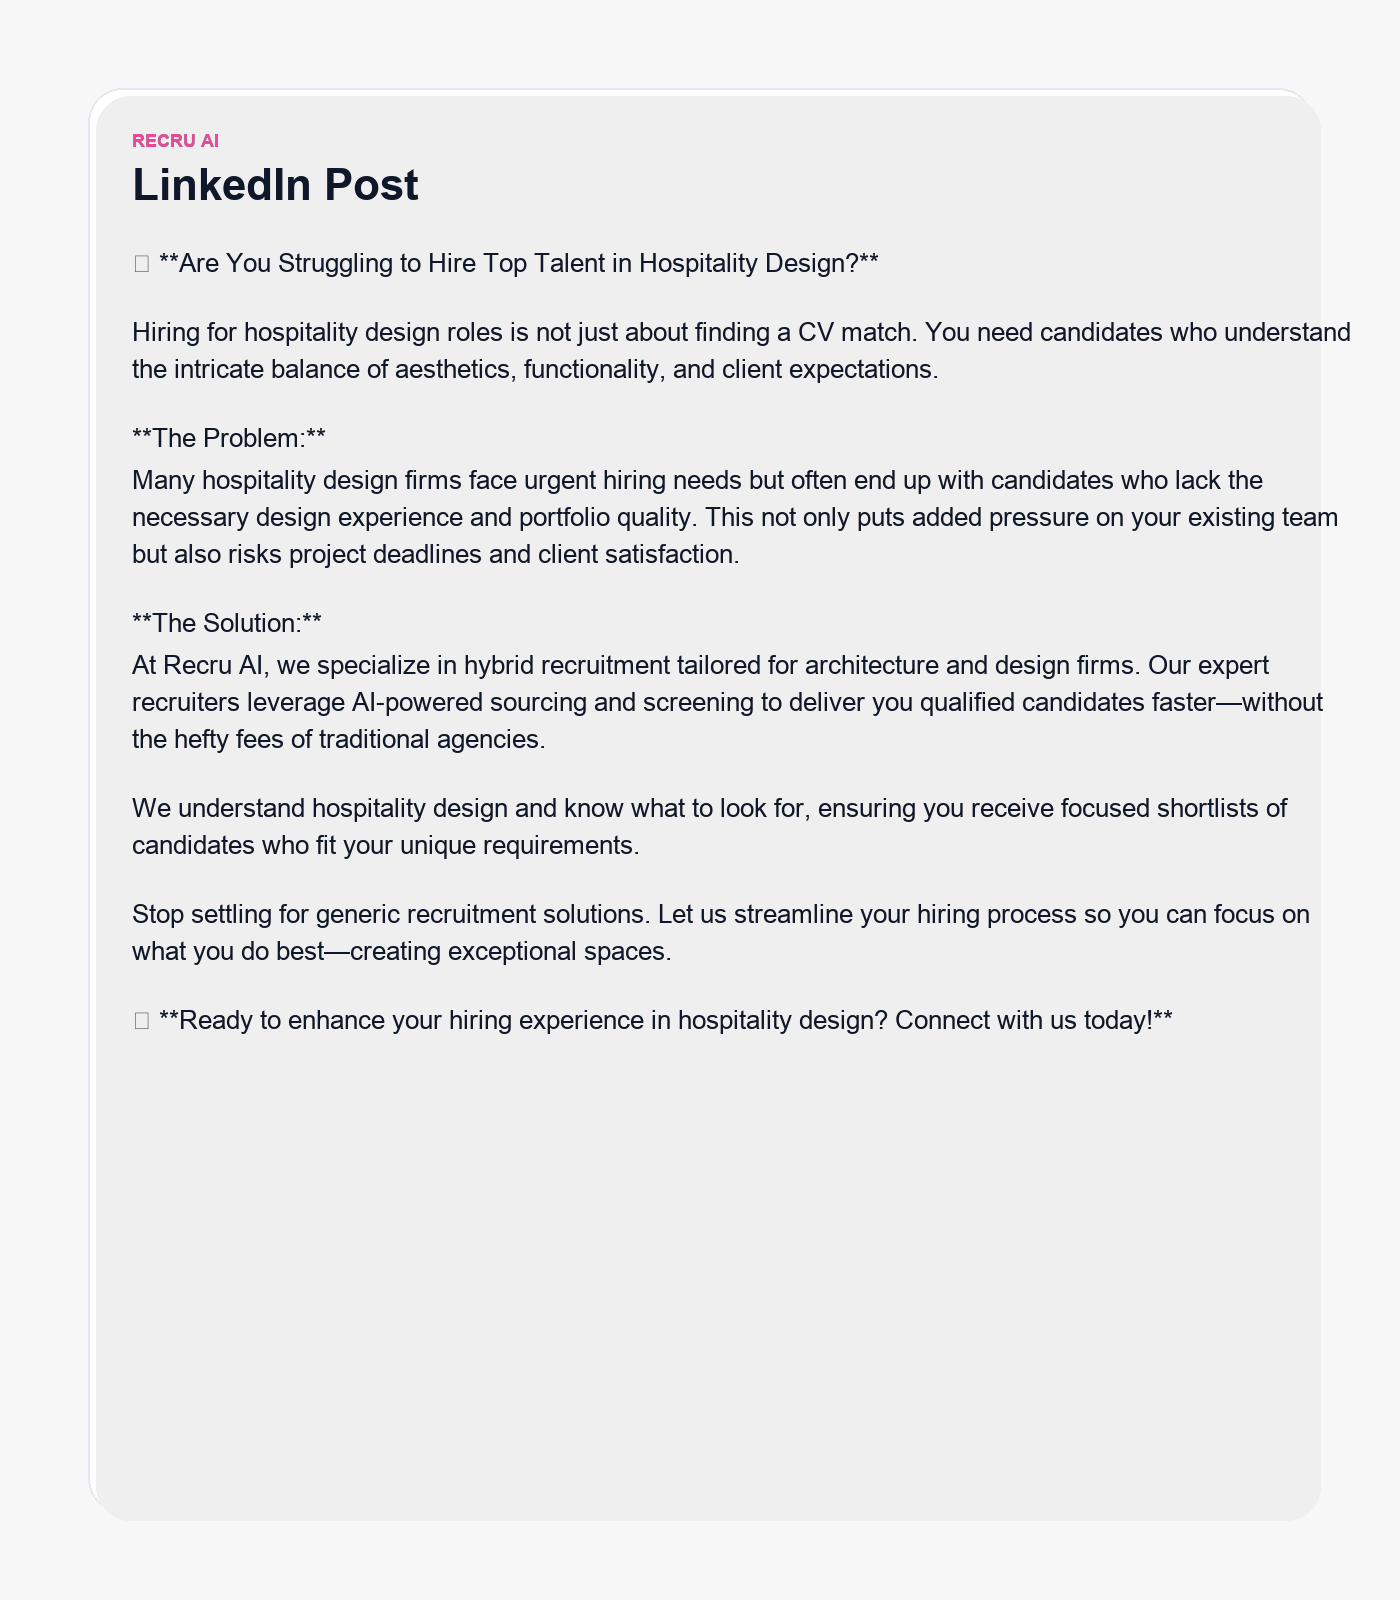
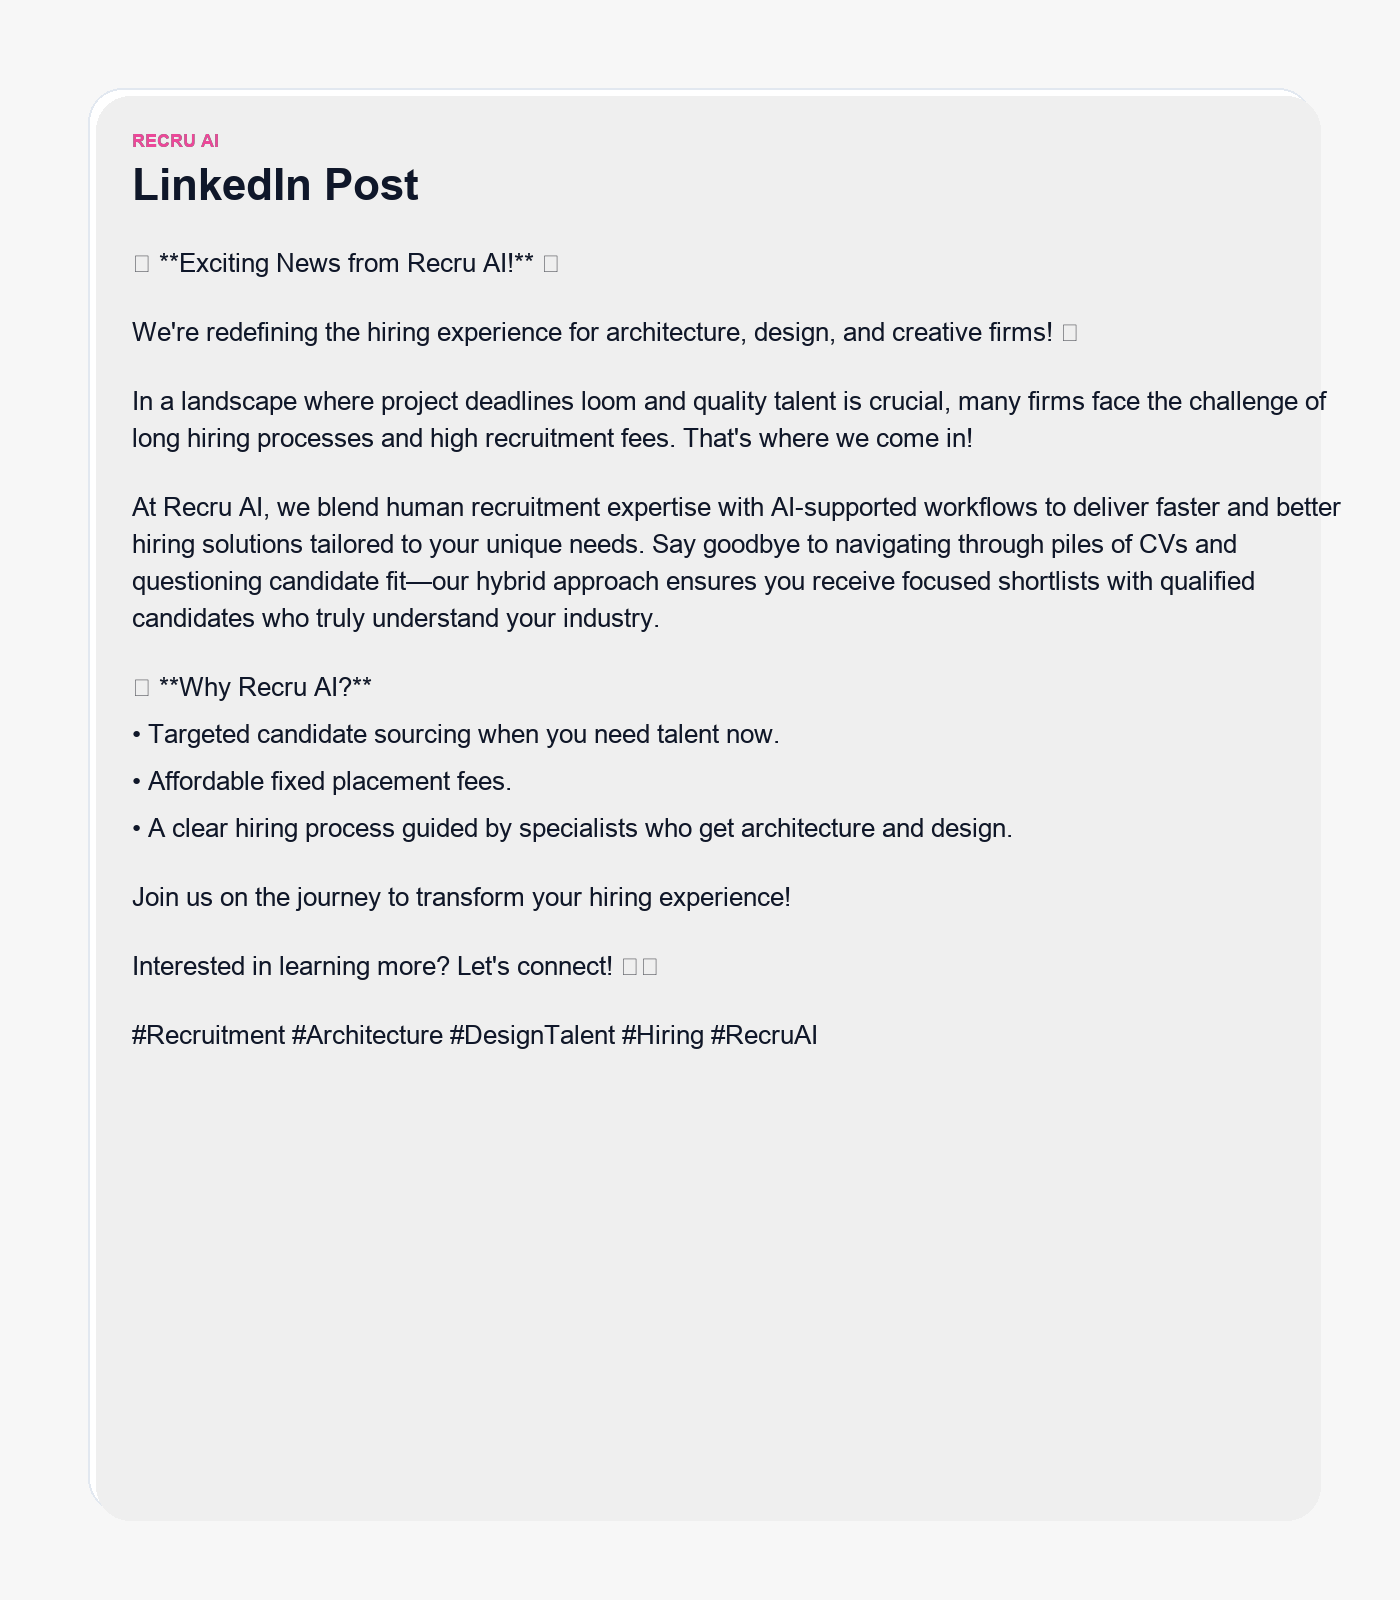
Content Creation V2

Changed region(s): [[0.0921, 0.1562, 0.9521, 0.6562], [0.7986, 0.5625, 0.9214, 0.5938]]

diff --git a/ai-content-creator/src/main.py b/ai-content-creator/src/main.py
@@ -278,6 +278,7 @@ def build_app():
                 generate_visual = gr.Checkbox(
                     label="Generate Visual Post",
                     value=True,
+                    elem_id="generate-visual-toggle",
                 )
                 visual_style = gr.Dropdown(
                     choices=VISUAL_STYLES,
@@ -382,6 +383,7 @@ if __name__ == "__main__":
     app = build_app()
     app.launch(
         inbrowser=True,
+        server_port=7864,
         theme=gr.themes.Soft(),
         css="""
         .shell {
@@ -598,6 +600,33 @@ if __name__ == "__main__":
         .card .gr-markdown,
         .card .gr-html {
             color: #ffffff;
+        }
+        #generate-visual-toggle {
+            position: relative;
+            z-index: 3;
+            margin-top: 8px;
+            margin-bottom: 10px;
+        }
+        #generate-visual-toggle label {
+            display: flex;
+            align-items: center;
+            gap: 10px;
+            cursor: pointer;
+            color: #ffffff !important;
+            font-weight: 700 !important;
+        }
+        #generate-visual-toggle input[type="checkbox"] {
+            width: 18px;
+            height: 18px;
+            min-width: 18px;
+            min-height: 18px;
+            accent-color: #5b4dff;
+            cursor: pointer;
+            opacity: 1 !important;
+            pointer-events: auto !important;
+        }
+        #generate-visual-toggle * {
+            pointer-events: auto !important;
         }
         .card input,
         .card textarea,

diff --git a/ai-content-creator/outputs/recru-ai-instagram-card.md b/ai-content-creator/outputs/recru-ai-instagram-card.md
@@ -1,35 +1,25 @@
-**Instagram Card Concept: Hospitality Design Hiring**
-
 ---
 
-**[Visual Style: Elegant and Inviting with a Touch of Sophistication]**
+**Visual Concept for Instagram Card**
 
----
+**Header (Bold, Large Font):**  
+✨ Exciting News from Recru AI! 🎉  
 
-### Headline:
-**Struggling to Find Talented Hospitality Designers?**
+**Subheader (Medium Font):**  
+Introducing Our New Hybrid Recruitment Service  
 
----
+**Main Body (Regular Font):**  
+Is finding top talent for your architecture or design firm taking too long? You're not alone! Many firms struggle with urgent hiring needs, high recruitment fees, and low candidate quality.  
 
-### Subheadline:
-**The Challenge:**
-Hiring for hospitality design roles requires a unique mix of creativity, technical skill, and client communication. But many candidates just don’t match the expectations.
+At Recru AI, we've combined human recruiter expertise with AI-assisted workflows to streamline your hiring process. Get faster shortlists, better-quality candidates, and lower costs—without the stress.  
 
----
+**Call to Action (Bold, Medium Font):**  
+Ready to hire smarter? Contact us today!
 
-### Solution Section:
-**The Recru AI Advantage:**
-- **Faster Shortlists:** We curate candidates who truly understand hospitality design.
-- **Quality Candidates:** Focus on portfolios that impress and skills that shine.
-- **Affordable Fees:** Save up to 80% compared to traditional agency costs.
+---  
 
----
-
-### Pain Point:
-**Don’t Let Limited Talent Hold Your Projects Back.**
-
----
-
-### Call to Action:
-**Ready to upgrade your hiring? Let Recru AI help!**  
-👉 DM us today!
+**Visual Style Notes:**  
+- Background: Clean and minimalistic  
+- Accent Colors: Use Recru AI brand colors for elements and text  
+- Icons: Include icons for speed, quality, and cost-effectiveness to visually reinforce messages  
+- Logo: Place Recru AI logo in the corner for brand recognition

diff --git a/ai-content-creator/outputs/recru-ai-linkedin-post.md b/ai-content-creator/outputs/recru-ai-linkedin-post.md
@@ -1,15 +1,18 @@
-🚀 **Are You Struggling to Hire Top Talent in Hospitality Design?** 
+🌟 **Exciting News from Recru AI!** 🌟
 
-Hiring for hospitality design roles is not just about finding a CV match. You need candidates who understand the intricate balance of aesthetics, functionality, and client expectations.
+We're redefining the hiring experience for architecture, design, and creative firms! 🚀
 
-**The Problem:**
-Many hospitality design firms face urgent hiring needs but often end up with candidates who lack the necessary design experience and portfolio quality. This not only puts added pressure on your existing team but also risks project deadlines and client satisfaction.
+In a landscape where project deadlines loom and quality talent is crucial, many firms face the challenge of long hiring processes and high recruitment fees. That's where we come in!
 
-**The Solution:**
-At Recru AI, we specialize in hybrid recruitment tailored for architecture and design firms. Our expert recruiters leverage AI-powered sourcing and screening to deliver you qualified candidates faster—without the hefty fees of traditional agencies. 
+At Recru AI, we blend human recruitment expertise with AI-supported workflows to deliver faster and better hiring solutions tailored to your unique needs. Say goodbye to navigating through piles of CVs and questioning candidate fit—our hybrid approach ensures you receive focused shortlists with qualified candidates who truly understand your industry.
 
-We understand hospitality design and know what to look for, ensuring you receive focused shortlists of candidates who fit your unique requirements.
+✨ **Why Recru AI?**
+- Targeted candidate sourcing when you need talent now.
+- Affordable fixed placement fees.
+- A clear hiring process guided by specialists who get architecture and design.
 
-Stop settling for generic recruitment solutions. Let us streamline your hiring process so you can focus on what you do best—creating exceptional spaces.
+Join us on the journey to transform your hiring experience!
 
-💡 **Ready to enhance your hiring experience in hospitality design? Connect with us today!**
+Interested in learning more? Let's connect! 💼🔗
+
+#Recruitment #Architecture #DesignTalent #Hiring #RecruAI